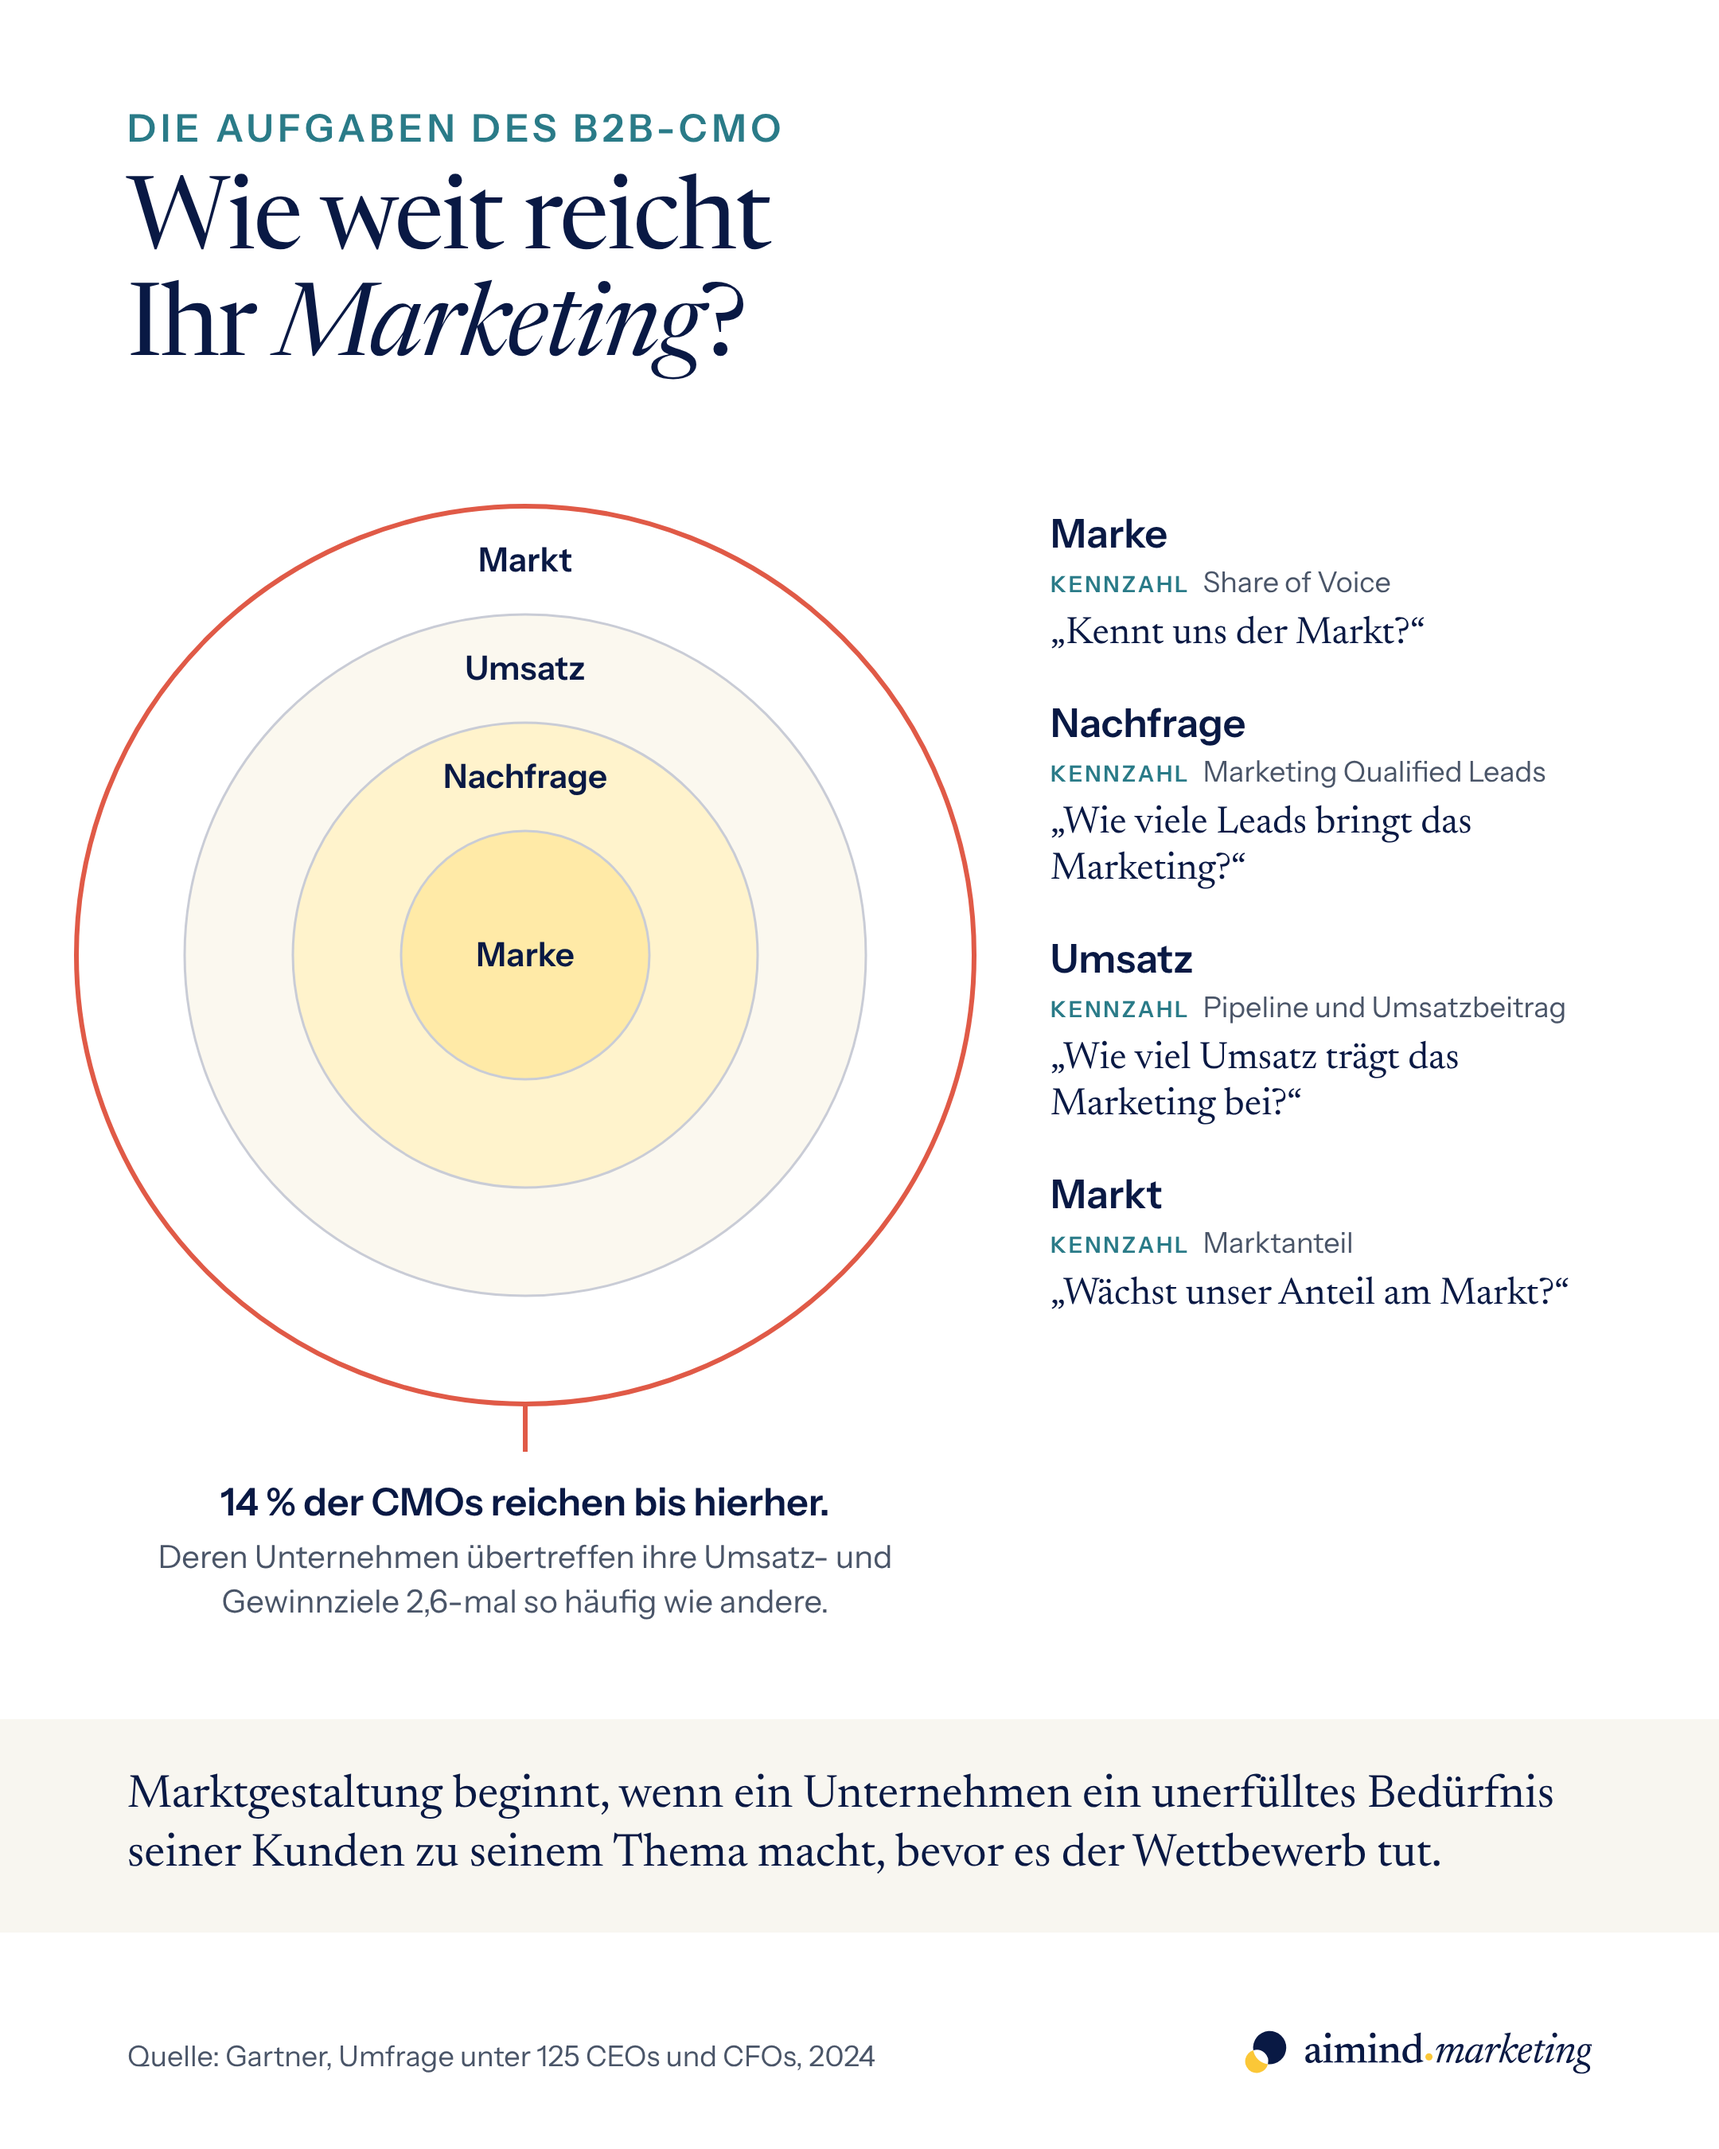
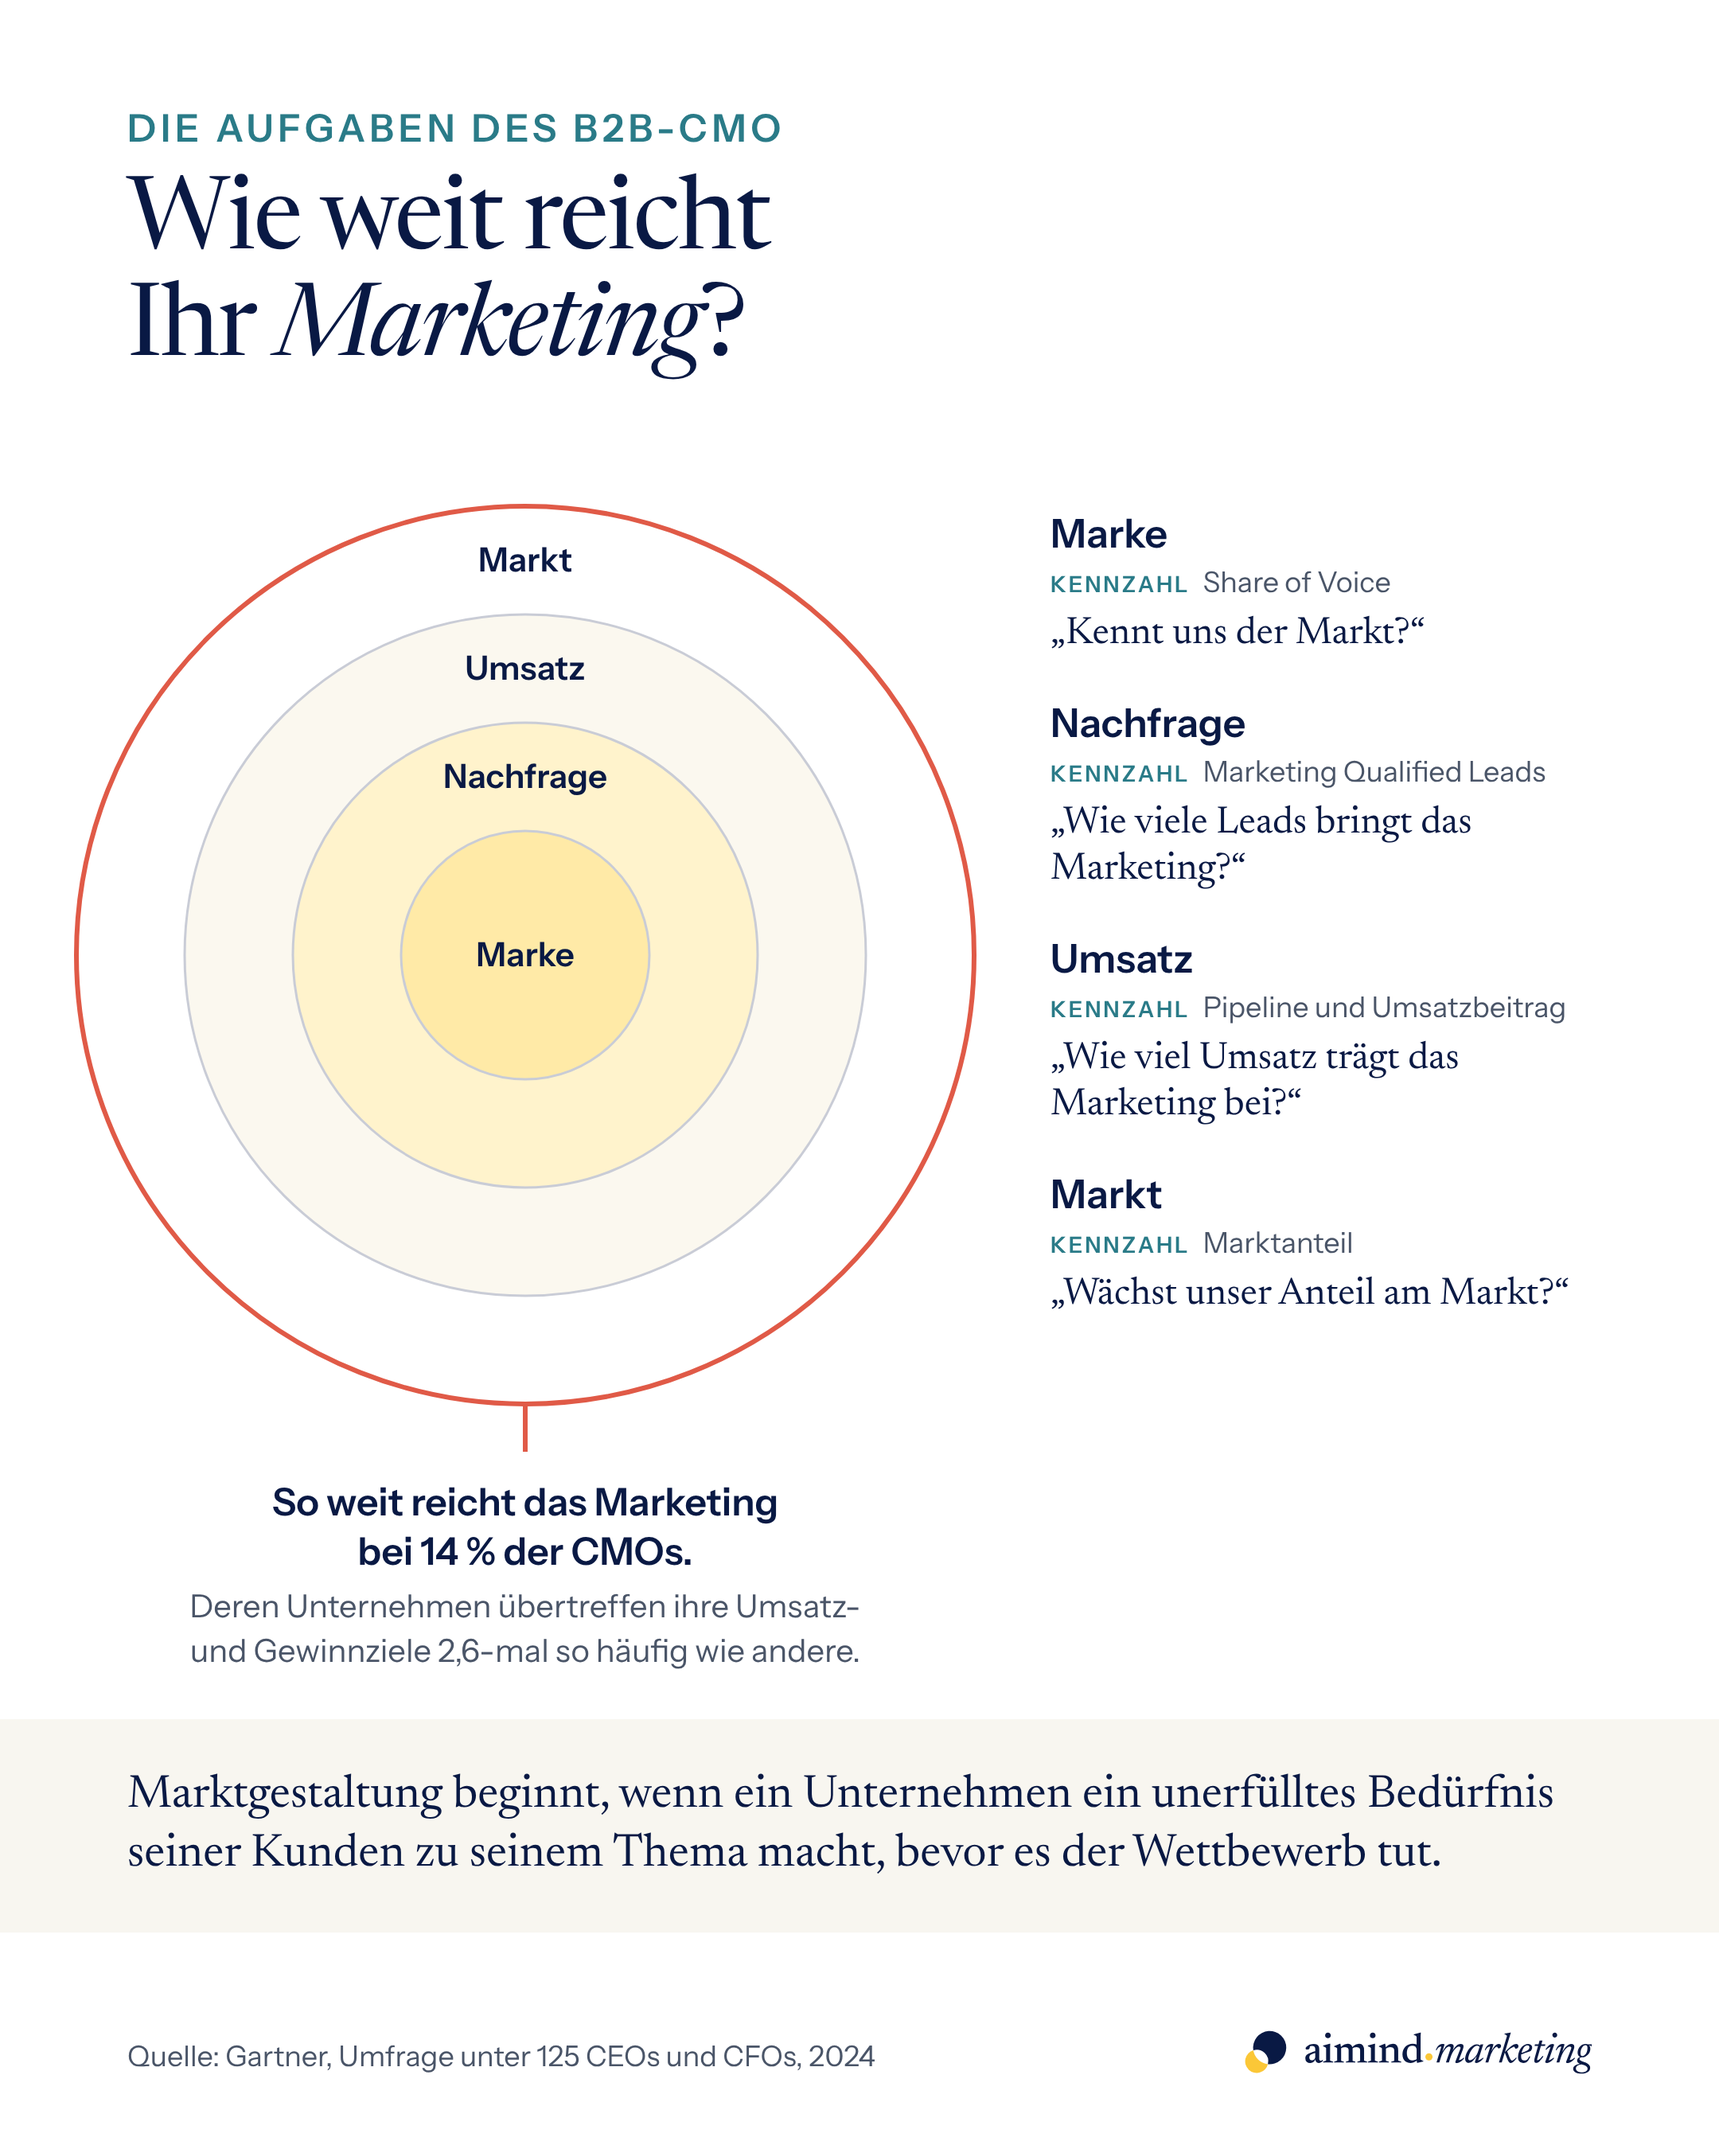
CMO infographic: note says how far marketing reaches for 14% of CMOs (DE/EN)
Claude-Session: https://claude.ai/code/session_01EoT7BpRMXSboJ4awkNYbjF

Changed region(s): [[0.0931, 0.6844, 0.4963, 0.7778]]

diff --git a/design/infographics/cmo-scope-de.html b/design/infographics/cmo-scope-de.html
@@ -21,8 +21,8 @@ svg{position:absolute;left:0;top:0}
 .i .m span{font-size:14px;font-weight:600;letter-spacing:.1em;text-transform:uppercase;color:var(--cyan);margin-right:8px}
 .i .q{font-family:"Newsreader",serif;font-size:24px;line-height:1.2;margin-top:6px}
 .note{position:absolute;left:70px;width:520px;top:928px;text-align:center}
-.note .a{font-size:24px;line-height:1.3;font-weight:600}
-.note .b{font-size:20px;line-height:1.38;color:var(--slate);margin-top:6px}
+.note .a{font-size:24px;line-height:1.3;font-weight:600;text-wrap:balance}
+.note .b{font-size:20px;line-height:1.38;color:var(--slate);margin-top:6px;text-wrap:balance}
 .fig{position:absolute;left:80px;right:80px;top:0px;display:flex;gap:36px;align-items:center}
 .fig .big{font-family:"Newsreader",serif;font-size:112px;line-height:.9;letter-spacing:-.02em;white-space:nowrap}
 .fig .a{font-size:23px;line-height:1.3;font-weight:600}
@@ -37,7 +37,7 @@ svg{position:absolute;left:0;top:0}
 <h1>Wie weit reicht<br>Ihr <em>Marketing</em>?</h1>
 <svg width="1080" height="1350" viewBox="0 0 1080 1350"><circle cx="330" cy="600" r="282" fill="#ffffff" stroke="#e05a47" stroke-width="3"/><circle cx="330" cy="600" r="214" fill="#fbf8ef" stroke="#c9ccd6" stroke-width="1.5"/><circle cx="330" cy="600" r="146" fill="#fff3cc" stroke="#c9ccd6" stroke-width="1.5"/><circle cx="330" cy="600" r="78" fill="#ffeaa7" stroke="#c9ccd6" stroke-width="1.5"/><text class="lab" x="330" y="607" text-anchor="middle">Marke</text><text class="lab" x="330" y="495.0" text-anchor="middle">Nachfrage</text><text class="lab" x="330" y="427.0" text-anchor="middle">Umsatz</text><text class="lab" x="330" y="359.0" text-anchor="middle">Markt</text><line x1="330" y1="882" x2="330" y2="912" stroke="#e05a47" stroke-width="3"/></svg>
 <div class="list"><div class="i"><h2>Marke</h2><div class="m"><span>Kennzahl</span>Share of Voice</div><div class="q">„Kennt uns der Markt?“</div></div><div class="i"><h2>Nachfrage</h2><div class="m"><span>Kennzahl</span>Marketing Qualified Leads</div><div class="q">„Wie viele Leads bringt das Marketing?“</div></div><div class="i"><h2>Umsatz</h2><div class="m"><span>Kennzahl</span>Pipeline und Umsatzbeitrag</div><div class="q">„Wie viel Umsatz trägt das Marketing bei?“</div></div><div class="i last"><h2>Markt</h2><div class="m"><span>Kennzahl</span>Marktanteil</div><div class="q">„Wächst unser Anteil am Markt?“</div></div></div>
-<div class="note"><div class="a">14&nbsp;% der CMOs reichen bis hierher.</div><div class="b">Deren Unternehmen übertreffen ihre Umsatz- und Gewinnziele 2,6-mal so häufig wie andere.</div></div>
+<div class="note"><div class="a">So weit reicht das Marketing bei 14&nbsp;% der CMOs.</div><div class="b">Deren Unternehmen übertreffen ihre Umsatz- und Gewinnziele 2,6-mal so häufig wie andere.</div></div>
 <div class="band"><p>Marktgestaltung beginnt, wenn ein Unternehmen ein unerfülltes Bedürfnis seiner Kunden zu seinem Thema macht, bevor es der Wettbewerb tut.</p></div>
 <div class="foot"><div class="src">Quelle: Gartner, Umfrage unter 125 CEOs und CFOs, 2024</div><img src="../logo/svg/aimind-logo.svg" alt="aimind.marketing"></div>
 </body></html>

diff --git a/design/infographics/cmo-scope-en.html b/design/infographics/cmo-scope-en.html
@@ -21,8 +21,8 @@ svg{position:absolute;left:0;top:0}
 .i .m span{font-size:14px;font-weight:600;letter-spacing:.1em;text-transform:uppercase;color:var(--cyan);margin-right:8px}
 .i .q{font-family:"Newsreader",serif;font-size:24px;line-height:1.2;margin-top:6px}
 .note{position:absolute;left:70px;width:520px;top:928px;text-align:center}
-.note .a{font-size:24px;line-height:1.3;font-weight:600}
-.note .b{font-size:20px;line-height:1.38;color:var(--slate);margin-top:6px}
+.note .a{font-size:24px;line-height:1.3;font-weight:600;text-wrap:balance}
+.note .b{font-size:20px;line-height:1.38;color:var(--slate);margin-top:6px;text-wrap:balance}
 .fig{position:absolute;left:80px;right:80px;top:0px;display:flex;gap:36px;align-items:center}
 .fig .big{font-family:"Newsreader",serif;font-size:112px;line-height:.9;letter-spacing:-.02em;white-space:nowrap}
 .fig .a{font-size:23px;line-height:1.3;font-weight:600}
@@ -37,7 +37,7 @@ svg{position:absolute;left:0;top:0}
 <h1>How Far Does Your <em>Marketing</em> Reach?</h1>
 <svg width="1080" height="1350" viewBox="0 0 1080 1350"><circle cx="330" cy="600" r="282" fill="#ffffff" stroke="#e05a47" stroke-width="3"/><circle cx="330" cy="600" r="214" fill="#fbf8ef" stroke="#c9ccd6" stroke-width="1.5"/><circle cx="330" cy="600" r="146" fill="#fff3cc" stroke="#c9ccd6" stroke-width="1.5"/><circle cx="330" cy="600" r="78" fill="#ffeaa7" stroke="#c9ccd6" stroke-width="1.5"/><text class="lab" x="330" y="607" text-anchor="middle">Brand</text><text class="lab" x="330" y="495.0" text-anchor="middle">Demand</text><text class="lab" x="330" y="427.0" text-anchor="middle">Revenue</text><text class="lab" x="330" y="359.0" text-anchor="middle">Market</text><line x1="330" y1="882" x2="330" y2="912" stroke="#e05a47" stroke-width="3"/></svg>
 <div class="list"><div class="i"><h2>Brand</h2><div class="m"><span>Metric</span>Share of voice</div><div class="q">“Does the market know us?”</div></div><div class="i"><h2>Demand</h2><div class="m"><span>Metric</span>Marketing qualified leads</div><div class="q">“How many leads does marketing deliver?”</div></div><div class="i"><h2>Revenue</h2><div class="m"><span>Metric</span>Pipeline and revenue contribution</div><div class="q">“How much revenue does marketing contribute?”</div></div><div class="i last"><h2>Market</h2><div class="m"><span>Metric</span>Market share</div><div class="q">“Is our share of the market growing?”</div></div></div>
-<div class="note"><div class="a">14% of CMOs reach this far.</div><div class="b">Their companies are 2.6 times more likely to exceed revenue and profit goals.</div></div>
+<div class="note"><div class="a">For 14% of CMOs, marketing reaches this far.</div><div class="b">Their companies are 2.6 times more likely to exceed revenue and profit goals.</div></div>
 <div class="band"><p>Market shaping starts when a company makes an unmet customer need its own topic before competitors do.</p></div>
 <div class="foot"><div class="src">Source: Gartner, survey of 125 CEOs and CFOs, 2024</div><img src="../logo/svg/aimind-logo.svg" alt="aimind.marketing"></div>
 </body></html>
